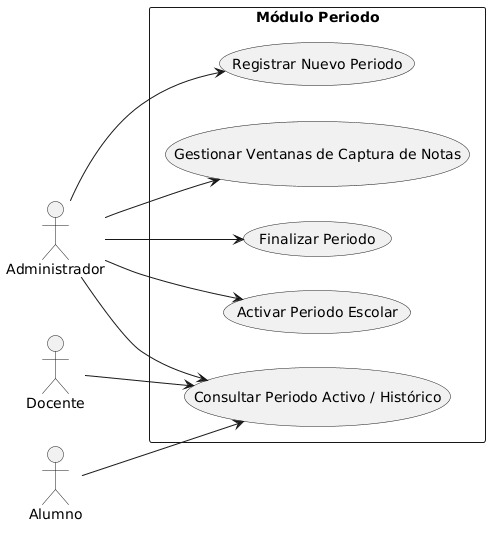
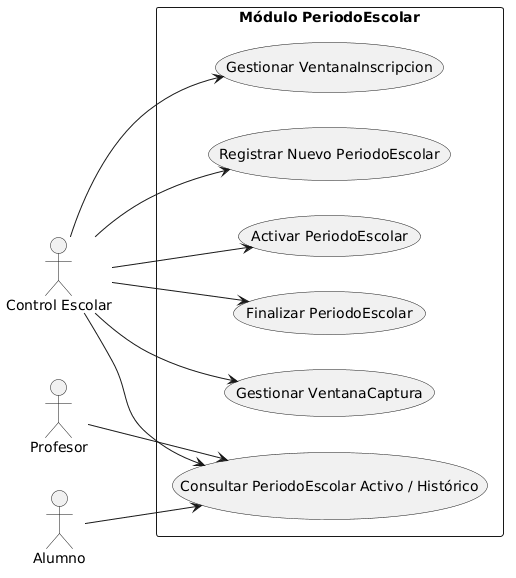
Se corrige el diagrama de casos de uso del modulo periodo y se agregan los diagramas de secuencia de este modulo.

diff --git a/modulos/m02_periodo.md b/modulos/m02_periodo.md
@@ -38,33 +38,316 @@ El siguiente diagrama representa las funciones y los actores del Módulo Periodo
 left to right direction
 skinparam packageStyle rectangle
 
-actor "Administrador" as Admin
-actor "Docente" as Docente
+actor "Control Escolar" as CE
+actor "Profesor" as Profesor
 actor "Alumno" as Alumno
 
-rectangle "Módulo Periodo" {
-    usecase "Registrar Nuevo Periodo" as UC1
-    usecase "Activar Periodo Escolar" as UC2
-    usecase "Consultar Periodo Activo / Histórico" as UC3
-    usecase "Finalizar Periodo" as UC4
-    usecase "Gestionar Ventanas de Captura de Notas" as UC5
+rectangle "Módulo PeriodoEscolar" {
+    usecase "Registrar Nuevo PeriodoEscolar" as UC1
+    usecase "Activar PeriodoEscolar" as UC2
+    usecase "Consultar PeriodoEscolar Activo / Histórico" as UC3
+    usecase "Finalizar PeriodoEscolar" as UC4
+    usecase "Gestionar VentanaCaptura" as UC5
+    usecase "Gestionar VentanaInscripcion" as UC6
 }
 
-Admin --> UC1
-Admin --> UC2
-Admin --> UC3
-Admin --> UC4
-Admin --> UC5
+CE --> UC1
+CE --> UC2
+CE --> UC3
+CE --> UC4
+CE --> UC5
+CE --> UC6
 
-Docente --> UC3
+Profesor --> UC3
 Alumno --> UC3
 @enduml
 ```
 
 ### Imagen del diagrama
 
-Se integrará la imagen del diagrama de casos de uso generado a partir del código UML anterior.
+![Diagrama de Casos de Uso](resources/imgs/m02_periodo_casos_uso.png)
 
+## Diagrama de componentes
+
+Nota: Generar 1 diagrama de componentes por cada caso de uso.
+
+{codigo fuente uml, coloca un link que haga referencia al archvio que contiene el codigo fuente}
+{imagen visible}
+
+## Diagrama de secuencia
+
+### UC01: Registrar Nuevo PeriodoEscolar
+```plantuml
+@startuml
+title Diagrama de Secuencia - UC01: Registrar Nuevo PeriodoEscolar
+skinparam shadowing false
+
+actor "Control Escolar" as CE
+boundary "Interfaz Web\n(Front-end)" as UI
+control "API REST\n(Módulo Periodo)" as API
+entity "PeriodoEscolar" as Entidad
+database "Base de Datos" as DB
+
+CE -> UI : 1. Seleccionar "Nuevo PeriodoEscolar"
+activate UI
+UI --> CE : 2. Mostrar formulario (clave, nombre, fechas inicio/fin)
+
+CE -> UI : 3. Enviar datos del PeriodoEscolar
+UI -> API : 4. POST /periodos-escolares (JSON)
+activate API
+
+API -> Entidad : 5. validarFechasYClave(datos)
+activate Entidad
+Entidad --> API : 6. Datos válidos (estatus = PLANIFICADO)
+deactivate Entidad
+
+API -> DB : 7. SELECT COUNT(*) WHERE clave = :clave
+activate DB
+DB --> API : 8. 0 (No duplicado)
+
+alt Clave disponible y fechas válidas
+API -> DB : 9. INSERT INTO PeriodoEscolar
+DB --> API : 10. Registro confirmado (idPeriodo)
+deactivate DB
+API --> UI : 11. HTTP 201 Created
+UI --> CE : 12. Mostrar confirmación de registro
+else Clave duplicada o fechas traslapadas
+API --> UI : 11. HTTP 400 Bad Request
+UI --> CE : 12. Mostrar mensaje de error
+end
+
+deactivate API
+deactivate UI
+@enduml
+```
+![Diagrama de secuencia](resources/imgs/m02_periodo_secuencia_UC01.png)
+### UC02: Activar PeriodoEscolar
+```plantuml
+@startuml
+title Diagrama de Secuencia - UC02: Activar PeriodoEscolar
+skinparam shadowing false
+
+actor "Control Escolar" as CE
+boundary "Interfaz Web\n(Front-end)" as UI
+control "API REST\n(Módulo Periodo)" as API
+entity "PeriodoEscolar" as Entidad
+database "Base de Datos" as DB
+
+CE -> UI : 1. Solicitar activación de PeriodoEscolar
+activate UI
+UI -> API : 2. PATCH /periodos-escolares/{id}/activar
+activate API
+
+API -> DB : 3. SELECT * FROM PeriodoEscolar WHERE estatus = 'ACTIVO'
+activate DB
+DB --> API : 4. Resultado de periodo activo actual
+
+alt No existe otro PeriodoEscolar activo
+    API -> Entidad : 5. cambiarEstatus(ACTIVO)
+    activate Entidad
+    Entidad --> API : 6. Transición válida
+    deactivate Entidad
+
+    API -> DB : 7. UPDATE PeriodoEscolar SET estatus = 'ACTIVO'
+    DB --> API : 8. Actualización exitosa
+    deactivate DB
+
+    API --> UI : 9. HTTP 200 OK
+    UI --> CE : 10. Notificar que el PeriodoEscolar está activo
+else Ya existe un PeriodoEscolar activo
+    API --> UI : 9. HTTP 409 Conflict
+    UI --> CE : 10. Advertir que debe finalizarse el periodo vigente primero
+end
+
+deactivate API
+deactivate UI
+@enduml
+```
+![Diagrama de secuencia](resources/imgs/m02_periodo_secuencia_UC02.png)
+### UC03: Consultar PeriodoEscolar Activo / Histórico
+```plantuml
+@startuml
+title Diagrama de Secuencia - UC03: Consultar PeriodoEscolar Activo / Histórico
+skinparam shadowing false
+
+actor "Control Escolar / Profesor / Alumno" as Usuario
+boundary "Interfaz Web\n(Front-end)" as UI
+control "API REST\n(Módulo Periodo)" as API
+database "Base de Datos" as DB
+
+Usuario -> UI : 1. Acceder a consulta de PeriodoEscolar
+activate UI
+UI -> API : 2. GET /periodos-escolares?filtro={activo|historico}
+activate API
+
+API -> DB : 3. SELECT * FROM PeriodoEscolar (con ventanas asociadas)
+activate DB
+DB --> API : 4. Lista de PeriodoEscolar
+deactivate DB
+
+alt Existen registros
+    API --> UI : 5. HTTP 200 OK (JSON con PeriodoEscolar)
+    UI --> Usuario : 6. Mostrar detalles (clave, fechas, estatus y ventanas)
+else Sin registros disponibles
+    API --> UI : 5. HTTP 404 Not Found
+    UI --> Usuario : 6. Mostrar mensaje "No hay periodos registrados"
+end
+
+deactivate API
+deactivate UI
+@enduml
+```
+![Diagrama de secuencia](resources/imgs/m02_periodo_secuencia_UC03.png)
+### UC04: Finalizar PeriodoEscolar
+```plantuml
+@startuml
+title Diagrama de Secuencia - UC04: Finalizar PeriodoEscolar
+skinparam shadowing false
+
+actor "Control Escolar" as CE
+boundary "Interfaz Web\n(Front-end)" as UI
+control "API REST\n(Módulo Periodo)" as API
+entity "PeriodoEscolar" as Entidad
+database "Base de Datos" as DB
+
+CE -> UI : 1. Seleccionar "Finalizar PeriodoEscolar"
+activate UI
+UI --> CE : 2. Solicitar confirmación de cierre definitivo
+
+CE -> UI : 3. Confirmar cierre
+UI -> API : 4. PATCH /periodos-escolares/{id}/finalizar
+activate API
+
+API -> DB : 5. Verificar cierre de VentanaCaptura y VentanaInscripcion
+activate DB
+DB --> API : 6. Estado de ventanas
+
+alt Ventanas cerradas y condiciones cumplidas
+    API -> Entidad : 7. cambiarEstatus(FINALIZADO)
+    activate Entidad
+    Entidad --> API : 8. Estado actualizado a histórico
+    deactivate Entidad
+
+    API -> DB : 9. UPDATE PeriodoEscolar SET estatus = 'FINALIZADO'
+    DB --> API : 10. Confirmación de cierre
+    deactivate DB
+
+    API --> UI : 11. HTTP 200 OK
+    UI --> CE : 12. PeriodoEscolar cerrado y movido a histórico
+else Existen ventanas o procesos abiertos
+    API --> UI : 11. HTTP 409 Conflict
+    UI --> CE : 12. Mostrar error: aún hay ventanas vigentes
+end
+
+deactivate API
+deactivate UI
+@enduml
+```
+![Diagrama de secuencia](resources/imgs/m02_periodo_secuencia_UC04.png)
+### UC05: Gestionar VentanaCaptura
+```plantuml
+@startuml
+title Diagrama de Secuencia - UC05: Gestionar VentanaCaptura
+skinparam shadowing false
+
+actor "Control Escolar" as CE
+boundary "Interfaz Web\n(Front-end)" as UI
+control "API REST\n(Módulo Periodo)" as API
+entity "VentanaCaptura" as VC
+database "Base de Datos" as DB
+
+CE -> UI : 1. Abrir configuración de VentanaCaptura del PeriodoEscolar
+activate UI
+UI --> CE : 2. Mostrar formulario (tipo evaluación, fecha apertura/cierre)
+
+CE -> UI : 3. Guardar fechas de VentanaCaptura
+UI -> API : 4. POST/PUT /periodos-escolares/{id}/ventanas-captura
+activate API
+
+API -> DB : 5. SELECT fechaInicio, fechaFin FROM PeriodoEscolar WHERE id = :id
+activate DB
+DB --> API : 6. Rango del PeriodoEscolar
+
+API -> VC : 7. validarRangoDentroDePeriodo(inicio, fin)
+activate VC
+VC --> API : 8. Validación exitosa
+deactivate VC
+
+alt Fechas válidas dentro del PeriodoEscolar
+    API -> DB : 9. INSERT/UPDATE VentanaCaptura
+    DB --> API : 10. Registro guardado
+    deactivate DB
+    API --> UI : 11. HTTP 200 OK
+    UI --> CE : 12. Mostrar VentanaCaptura actualizada
+else Fechas fuera del PeriodoEscolar
+    API --> UI : 11. HTTP 422 Unprocessable Entity
+    UI --> CE : 12. Indicar error en el rango de fechas
+end
+
+deactivate API
+deactivate UI
+@enduml
+```
+![Diagrama de secuencia](resources/imgs/m02_periodo_secuencia_UC05.png)
+### UC06: Gestionar VentanaInscripcion
+```plantuml
+@startuml
+title Diagrama de Secuencia - UC06: Gestionar VentanaInscripcion
+skinparam shadowing false
+
+actor "Control Escolar" as CE
+boundary "Interfaz Web\n(Front-end)" as UI
+control "API REST\n(Módulo Periodo)" as API
+entity "VentanaInscripcion" as VI
+database "Base de Datos" as DB
+
+CE -> UI : 1. Seleccionar configuración de VentanaInscripcion
+activate UI
+UI --> CE : 2. Mostrar formulario (tipo inscripción, fecha/hora inicio y fin)
+
+CE -> UI : 3. Registrar fechas de VentanaInscripcion
+UI -> API : 4. POST/PUT /periodos-escolares/{id}/ventanas-inscripcion
+activate API
+
+API -> DB : 5. SELECT fechaInicio, fechaFin FROM PeriodoEscolar WHERE id = :id
+activate DB
+DB --> API : 6. Rango del PeriodoEscolar
+
+API -> VI : 7. validarRangoYNoTraslape(inicio, fin)
+activate VI
+VI --> API : 8. Validación exitosa
+deactivate VI
+
+alt Fechas válidas
+    API -> DB : 9. INSERT/UPDATE VentanaInscripcion
+    DB --> API : 10. VentanaInscripcion guardada
+    deactivate DB
+    API --> UI : 11. HTTP 200 OK
+    UI --> CE : 12. Confirmar calendario de inscripciones
+else Fechas inválidas o traslapadas
+    API --> UI : 11. HTTP 422 Unprocessable Entity
+    UI --> CE : 12. Mostrar error de validación
+end
+
+deactivate API
+deactivate UI
+@enduml
+```
+![Diagrama de secuencia](resources/imgs/m02_periodo_secuencia_UC06.png)
+
+
+## Diagrama de estados
+
+Nota: Generar 1 diagrama de estados para objetos o clases involucradas.
+
+{codigo fuente uml, coloca un link que haga referencia al archvio que contiene el codigo fuente}
+{imagen visible}
+
+## Diagrama de clases
+
+{codigo fuente uml, coloca un link que haga referencia al archvio que contiene el codigo fuente}
+
+{imagen visible}
 ## Glosario y Abreviaturas
 
 | Término | Definición |
